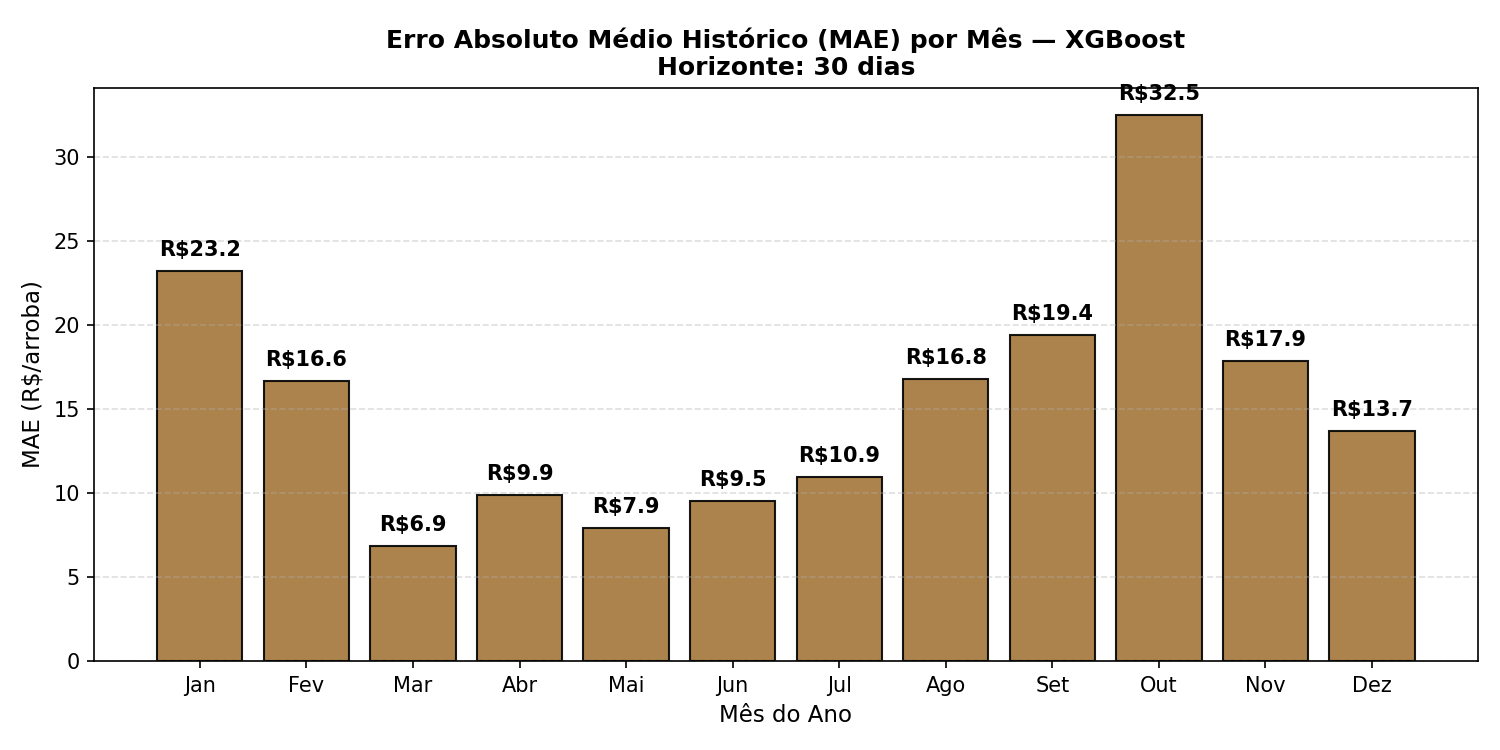
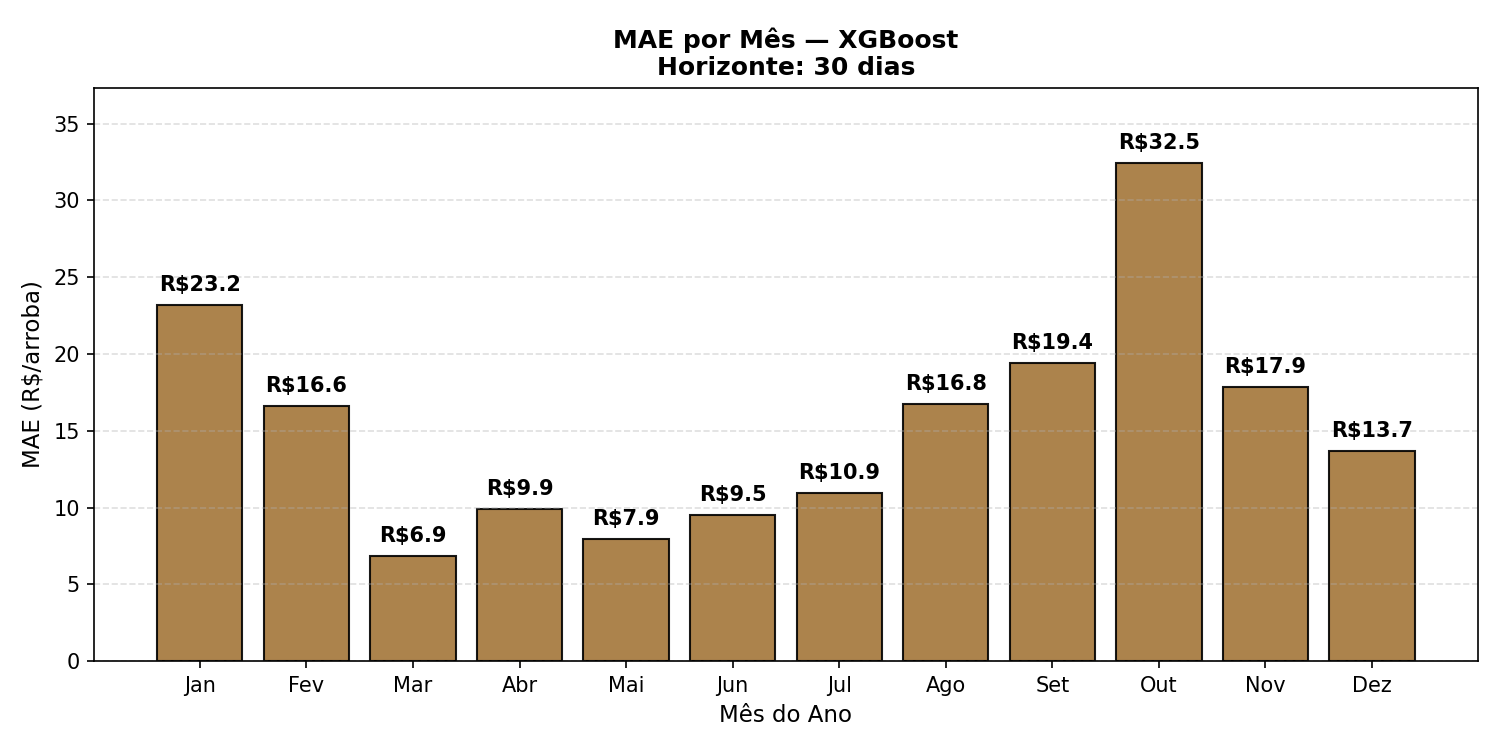
feat: implement model evaluation script and generate residual and seasonal error analysis plots

diff --git a/src/models/evaluate.py b/src/models/evaluate.py
@@ -345,6 +345,9 @@ def plot_walk_forward_folds(
 
     fig, ax = plt.subplots(figsize=(14, 5))
 
+    y_ticks = []
+    y_ticklabels = []
+
     for i in range(N_FOLDS):
         train_end = MIN_TRAIN_DAYS + i * test_size
         test_end  = min(train_end + test_size, n)
@@ -381,13 +384,8 @@ def plot_walk_forward_folds(
         )
 
         # Rotulo do fold no eixo y
-        ax.text(
-            treino_inicio - pd.Timedelta(days=30),
-            y_pos,
-            f"Fold {fold_num}",
-            va="center", ha="right",
-            fontsize=10, fontweight="bold",
-        )
+        y_ticks.append(y_pos)
+        y_ticklabels.append(f"Fold {fold_num}")
 
         # Rotulo de data de inicio do treino (apenas fold 1)
         if i == 0:
@@ -400,24 +398,27 @@ def plot_walk_forward_folds(
             )
 
         # Rotulo de data dentro da barra de teste
+        MESES_PT = {1: "Jan", 2: "Fev", 3: "Mar", 4: "Abr", 5: "Mai", 6: "Jun", 7: "Jul", 8: "Ago", 9: "Set", 10: "Out", 11: "Nov", 12: "Dez"}
+        lbl_inicio = f"{MESES_PT[teste_inicio.month]}/{teste_inicio.year}"
+        lbl_fim    = f"{MESES_PT[teste_fim.month]}/{teste_fim.year}"
         ax.text(
             teste_inicio + (teste_fim - teste_inicio) / 2,
             y_pos,
-            f"{teste_inicio.strftime('%b/%Y')} – {teste_fim.strftime('%b/%Y')}",
+            f"{lbl_inicio} – {lbl_fim}",
             va="center", ha="center",
             fontsize=8.5, color="white", fontweight="bold",
         )
 
     ax.set_title(
-        "Estrutura de Validação Walk-Forward — Expanding Window"
-        f"{N_FOLDS} Folds | Treino mínimo: {MIN_TRAIN_DAYS} dias",
+        "Estrutura de validação walk-forward",
         fontsize=13, fontweight="bold",
     )
     ax.set_xlabel("Data", fontsize=11)
-    ax.set_yticks([])
+    ax.set_yticks(y_ticks)
+    ax.set_yticklabels(y_ticklabels, fontsize=10, fontweight="bold")
     ax.xaxis_date()
     fig.autofmt_xdate(rotation=30)
-    ax.legend(fontsize=9, loc="lower right", framealpha=0.9)
+    ax.legend(fontsize=9, loc="upper right", framealpha=0.9)
     ax.grid(axis="x", linestyle="--", alpha=0.3)
     ax.set_xlim(
         datas[0] - pd.Timedelta(days=60),
@@ -439,9 +440,9 @@ def plot_walk_forward_folds(
 
 
 def plot_analise_residuos(
-    train_results: dict,
-    horizonte: int = 1,
-    model_type: str = "xgb",
+    resultados_treinamento: dict,
+    horizonte_dias: int = 1,
+    tipo_modelo: str = "xgboost",
     data_inicio: str = "2024-01-01",
     save_plot: bool = True,
 ) -> None:
@@ -619,9 +620,10 @@ def plot_erro_mensal(
     # ==========================================
     fig_mae, ax1 = plt.subplots(figsize=(10, 5))
     bars1 = ax1.bar(x_labels, mae_vals, color="#a37638", alpha=0.9, edgecolor="black")
-    ax1.set_title(f"Erro Absoluto Médio Histórico (MAE) por Mês — {model_label}\nHorizonte: {horizonte_dias} dias", fontsize=12, fontweight="bold")
+    ax1.set_title(f"MAE por Mês — {model_label}\nHorizonte: {horizonte_dias} dias", fontsize=12, fontweight="bold")
     ax1.set_xlabel("Mês do Ano", fontsize=11)
     ax1.set_ylabel("MAE (R$/arroba)", fontsize=11)
+    ax1.set_ylim(0, max(mae_vals) * 1.15)
     ax1.grid(axis="y", linestyle="--", alpha=0.4)
     for bar in bars1:
         h_val = bar.get_height()
@@ -642,9 +644,10 @@ def plot_erro_mensal(
     # ==========================================
     fig_mape, ax2 = plt.subplots(figsize=(10, 5))
     bars2 = ax2.bar(x_labels, mape_vals, color="#3864a3", alpha=0.9, edgecolor="black")
-    ax2.set_title(f"Erro Percentual Absoluto (MAPE) por Mês — {model_label}\nHorizonte: {horizonte_dias} dias", fontsize=12, fontweight="bold")
+    ax2.set_title(f"MAPE por Mês — {model_label}\nHorizonte: {horizonte_dias} dias", fontsize=12, fontweight="bold")
     ax2.set_xlabel("Mês do Ano", fontsize=11)
     ax2.set_ylabel("MAPE (%)", fontsize=11)
+    ax2.set_ylim(0, max(mape_vals) * 1.15)
     ax2.grid(axis="y", linestyle="--", alpha=0.4)
     for bar in bars2:
         h_val = bar.get_height()
